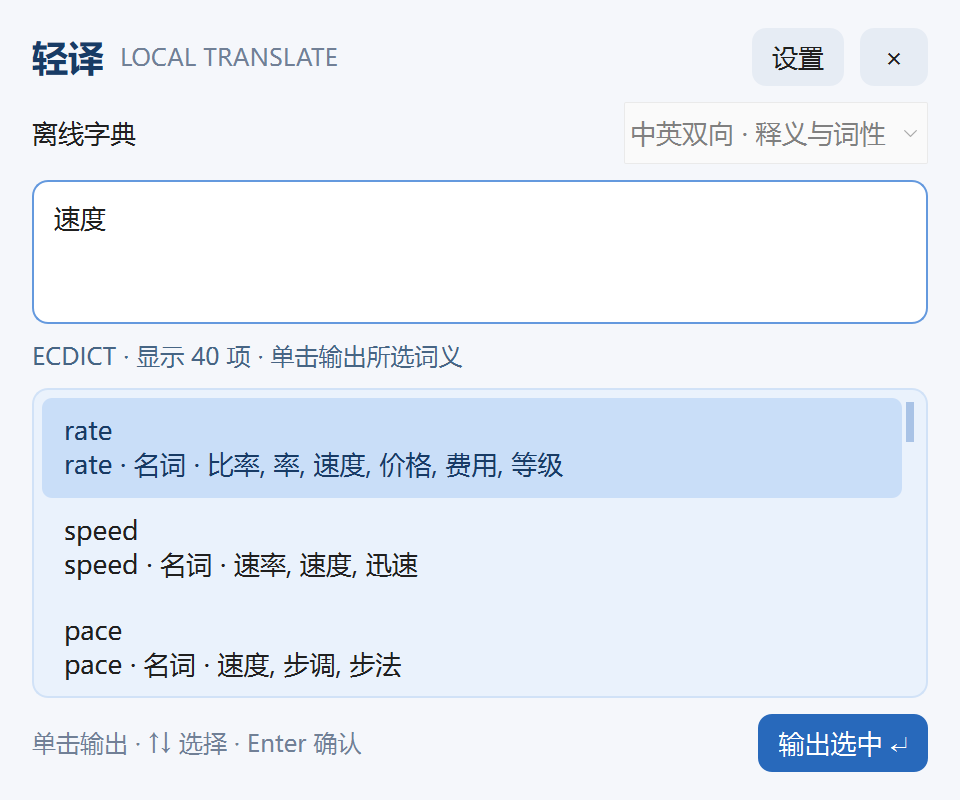
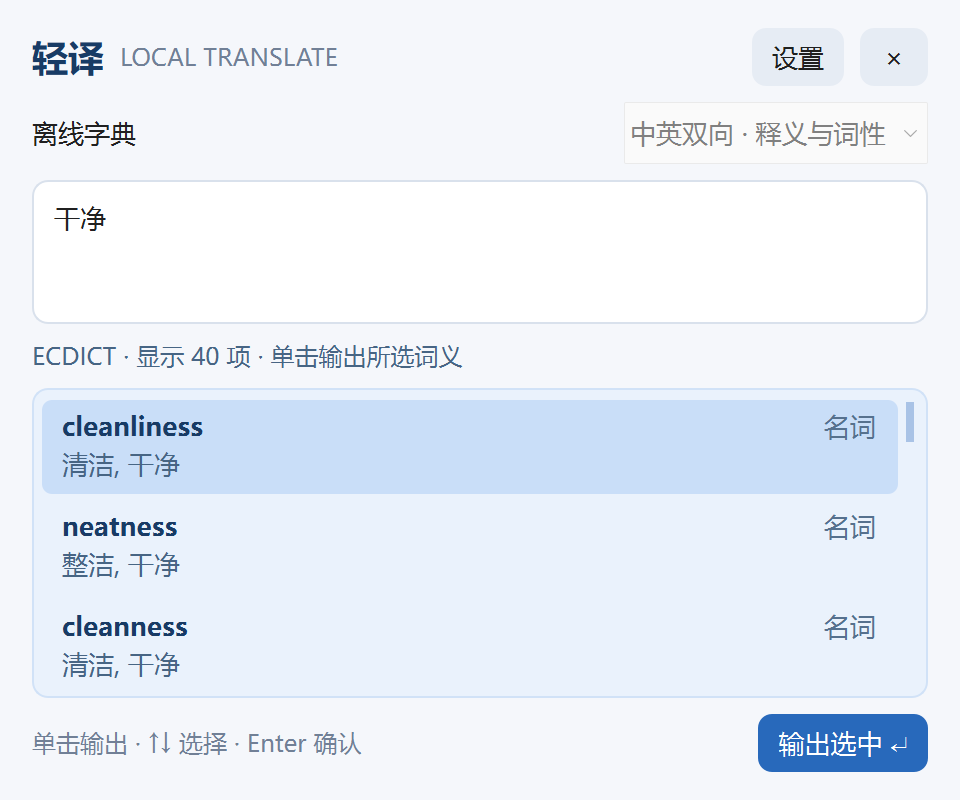
fix: refine dictionary layout and toggle popups with hotkeys

diff --git a/translator/ui.py b/translator/ui.py
@@ -3,12 +3,12 @@ from pathlib import Path
 import threading
 import time
 
-from PySide6.QtCore import Qt, QEvent, QObject, QThread, QTimer, Signal, Slot, QMimeData, QSize
-from PySide6.QtGui import QColor, QCursor, QFont, QIcon, QPainter, QPixmap, QPalette
+from PySide6.QtCore import Qt, QEvent, QObject, QThread, QTimer, Signal, Slot, QMimeData, QSize, QRect
+from PySide6.QtGui import QColor, QCursor, QFont, QFontMetrics, QIcon, QPainter, QPixmap, QPalette
 from PySide6.QtWidgets import (
     QApplication, QComboBox, QDialog, QFileDialog, QFormLayout, QHBoxLayout,
     QLabel, QLineEdit, QMenu, QMessageBox, QPlainTextEdit, QPushButton,
-    QSystemTrayIcon, QVBoxLayout, QWidget, QListWidget, QListWidgetItem, QStackedWidget, QStyleFactory, QSpinBox,
+    QSystemTrayIcon, QVBoxLayout, QWidget, QListWidget, QListWidgetItem, QStackedWidget, QStyleFactory, QSpinBox, QStyledItemDelegate, QStyle,
 )
 
 from .config import Settings
@@ -118,6 +118,49 @@ class InputEdit(QPlainTextEdit):
         super().keyPressEvent(event)
 
 
+class CandidateDelegate(QStyledItemDelegate):
+    """Dictionary rows have aligned title/POS and a separate, elided description."""
+    DETAILS_ROLE = int(Qt.ItemDataRole.UserRole) + 1
+
+    def paint(self, painter, option, index):
+        fields = index.data(self.DETAILS_ROLE)
+        if fields is None:
+            return super().paint(painter, option, index)
+        title, pos, description = fields
+        painter.save()
+        painter.setClipRect(option.rect)
+        painter.setRenderHint(QPainter.RenderHint.Antialiasing)
+        rect = option.rect.adjusted(0, 1, -2, -2)
+        selected = bool(option.state & QStyle.StateFlag.State_Selected)
+        hovered = bool(option.state & QStyle.StateFlag.State_MouseOver)
+        if selected or hovered:
+            painter.setPen(Qt.PenStyle.NoPen)
+            painter.setBrush(QColor("#c9def8" if selected else "#dceafb"))
+            painter.drawRoundedRect(rect, 5, 5)
+        content = rect.adjusted(10, 5, -10, -5)
+        font = QFont(option.font)
+        metrics = QFontMetrics(font)
+        line_height = metrics.height()
+        pos_width = min(metrics.horizontalAdvance(pos) + 12, content.width() // 2)
+        pos_rect = QRect(content.right() - pos_width, content.top(), pos_width, line_height)
+        painter.setFont(font)
+        painter.setPen(QColor("#56718e"))
+        painter.drawText(pos_rect, Qt.AlignmentFlag.AlignRight | Qt.AlignmentFlag.AlignVCenter,
+                         metrics.elidedText(pos, Qt.TextElideMode.ElideRight, pos_width))
+        font.setWeight(QFont.Weight.DemiBold)
+        painter.setFont(font)
+        painter.setPen(QColor("#183b65"))
+        title_rect = QRect(content.left(), content.top(), max(0, content.width() - pos_width - 12), line_height)
+        painter.drawText(title_rect, Qt.AlignmentFlag.AlignLeft | Qt.AlignmentFlag.AlignVCenter,
+                         QFontMetrics(font).elidedText(title, Qt.TextElideMode.ElideRight, title_rect.width()))
+        painter.setFont(option.font)
+        painter.setPen(QColor("#476584"))
+        detail_rect = QRect(content.left(), content.top() + line_height + 3, content.width(), line_height)
+        painter.drawText(detail_rect, Qt.AlignmentFlag.AlignLeft | Qt.AlignmentFlag.AlignVCenter,
+                         metrics.elidedText(description, Qt.TextElideMode.ElideRight, content.width()))
+        painter.restore()
+
+
 class Popup(QWidget):
     changed = Signal()
     submit = Signal()
@@ -182,6 +225,7 @@ class Popup(QWidget):
         self.candidates = QListWidget()
         self.candidates.setObjectName("names")
         self.candidates.setMinimumHeight(80)
+        self.candidates.setItemDelegate(CandidateDelegate(self.candidates))
         self.candidates.setHorizontalScrollBarPolicy(Qt.ScrollBarPolicy.ScrollBarAsNeeded)
         self.candidates.itemClicked.connect(lambda item: self.candidate_chosen.emit())
         self.candidates.installEventFilter(self)
@@ -243,10 +287,14 @@ class Popup(QWidget):
             title = candidate["name"]
             label = candidate["label"]
             detail = candidate["detail"]
-            # Keep rows compact; full definitions remain available in the tooltip.
-            text = title + "\n" + label + (" · " + detail if title not in detail else "")
+            word, _, pos = label.partition(" · ")
+            # Chinese lookup already uses the English headword as its title.
+            # English lookup uses a Chinese sense; retain the source word below it.
+            description = detail if title.casefold() == word.casefold() else "原词：" + word
+            text = title + "\n" + pos + " · " + description
             item = QListWidgetItem(text)
             item.setData(Qt.ItemDataRole.UserRole, title)
+            item.setData(CandidateDelegate.DETAILS_ROLE, (title, pos, description))
             item.setToolTip(label + (" /" + candidate["phonetic"] + "/" if candidate["phonetic"] else "") + "\n" + detail + "\n单击：输出 " + title)
             item.setSizeHint(QSize(0, 50))
             self.candidates.addItem(item)
@@ -570,9 +618,10 @@ class Controller(QObject):
             return
         mode = {1: "translate", 2: "naming", 3: "dictionary"}[ident]
         if self.popup.isVisible():
-            if self.popup.mode != mode:
+            if self.popup.mode == mode:
+                self.popup.close()
+            else:
                 self.start_popup(self.popup.source.toPlainText(), mode)
-            self.popup.source.setFocus()
             return
         target = native.foreground()
         deadline = time.monotonic() + 1.5

diff --git a/tests/test_ui.py b/tests/test_ui.py
@@ -294,3 +294,32 @@ def test_dictionary_mode_switch_and_edits_invalidate_results(controller, monkeyp
     controller.active_job = (old, "run")
     controller.completed(old, [{"name": "跑"}], "")
     assert controller.popup.candidates.count() == 0 and controller.timer.isActive()
+
+
+@pytest.mark.parametrize("ident,mode", [(1, "translate"), (2, "naming"), (3, "dictionary")])
+def test_same_hotkey_toggles_closed_and_copies_ready_result(controller, app, monkeypatch, ident, mode):
+    monkeypatch.setattr(controller, "enqueue", lambda text: None)
+    controller.start_popup("test", mode)
+    controller.timer.stop()
+    controller.result_revision = controller.revision
+    if mode == "translate":
+        controller.popup.output.setPlainText("测试")
+    else:
+        controller.popup.show_candidates([{"name": "测试", "label": "candidate"}])
+    controller.on_hotkey(ident)
+    assert not controller.popup.isVisible()
+    assert app.clipboard().text() == "测试"
+    assert not controller.timer.isActive()
+
+
+def test_toggle_while_working_cancels_without_copying_stale_result(controller, app, monkeypatch):
+    monkeypatch.setattr(controller, "enqueue", lambda text: None)
+    controller.start_popup("test", "dictionary")
+    old_revision = controller.revision
+    app.clipboard().setText("keep")
+    controller.on_hotkey(3)
+    assert not controller.popup.isVisible() and controller.cancel.is_set()
+    controller.active_job = (old_revision, "test")
+    controller.completed(old_revision, [{"name": "stale"}], "")
+    assert app.clipboard().text() == "keep"
+    assert not controller.current_result()

diff --git a/README.md b/README.md
@@ -11,6 +11,7 @@
 - **F1**：打开统一翻译框。有选中文字时自动填入并翻译；没有选中文字时显示空白输入框，直接输入即可。自动填入的内容也可以自由修改。中文自动译成英文，英文自动译成中文，停止输入约半秒后开始翻译。
 - **F2**：打开代码命名框。支持同样的取词 / 空白输入方式；一次描述一个需求，停止输入后生成多个候选名称，单击某个候选即复制、粘贴回原输入位置并关闭窗口。
 - **F3**：打开字典框。同样支持取词、空白输入及修改原文；英文查询显示多个中文释义及词性，中文查询显示多个英文候选及对应释义。单击某项即可输出，Enter 输出选中项。
+- 再按当前模式的快捷键会关闭窗口，并复制已经完成的结果；按其他模式的快捷键则保留输入并切换模式。自定义组合快捷键也遵循同样规则。
 - 三种模式取词均通过 Ctrl+C 获取可复制的选中内容，并在获取后恢复原剪贴板；没有取到文字时不会误用剪贴板中的旧内容。图片中的文字暂不支持取词，可自行输入。
 - **Enter**：译文完成后自动复制，关闭窗口，并尝试粘贴回触发快捷键时的窗口。翻译尚未完成时按 Enter 会等待完成后执行。
 - **Shift+Enter**：输入多行文字。中文输入法正在组词时，Enter 保留给输入法。
